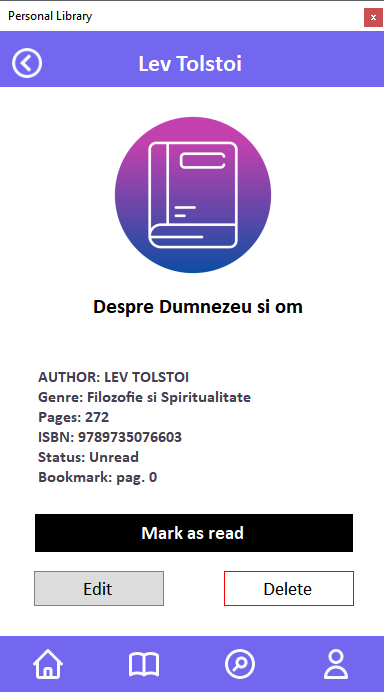
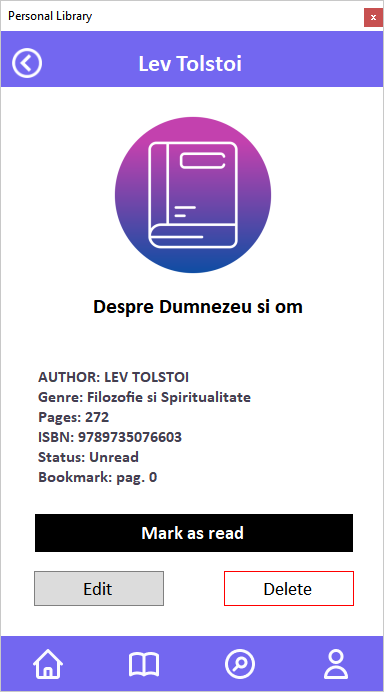
Update pictures border and readme.md

diff --git a/README.md b/README.md
@@ -20,15 +20,13 @@ Personal Library App is a Windows Forms desktop application designed to help use
 ## Home
 The HOME screen displays unread and currently reading books, providing an overview of the reading status. Clicking on a book icon opens its details.
 #### Home Screen
-<p align="left">
-  <img src="Screenshots/Home.png" style="border: 2px solid gray;">
-</p>
+![Home Screen](Screenshots/Home.png)
 
 
 ## Books
 The BOOKS screen lists all books in the personal library. Here, you can sort books (Default, Title, Author, Status), edit book details, and add new books.
 #### Books Screen
-<img src="Screenshots/Books.png" alt="Books Screen" style="border: 1px solid gray;">
+![Books Screen](Screenshots/Books.png)
 
 ### Book Info
 Clicking the info icon opens the book details, where users can edit, delete, or mark books as read/unread.
